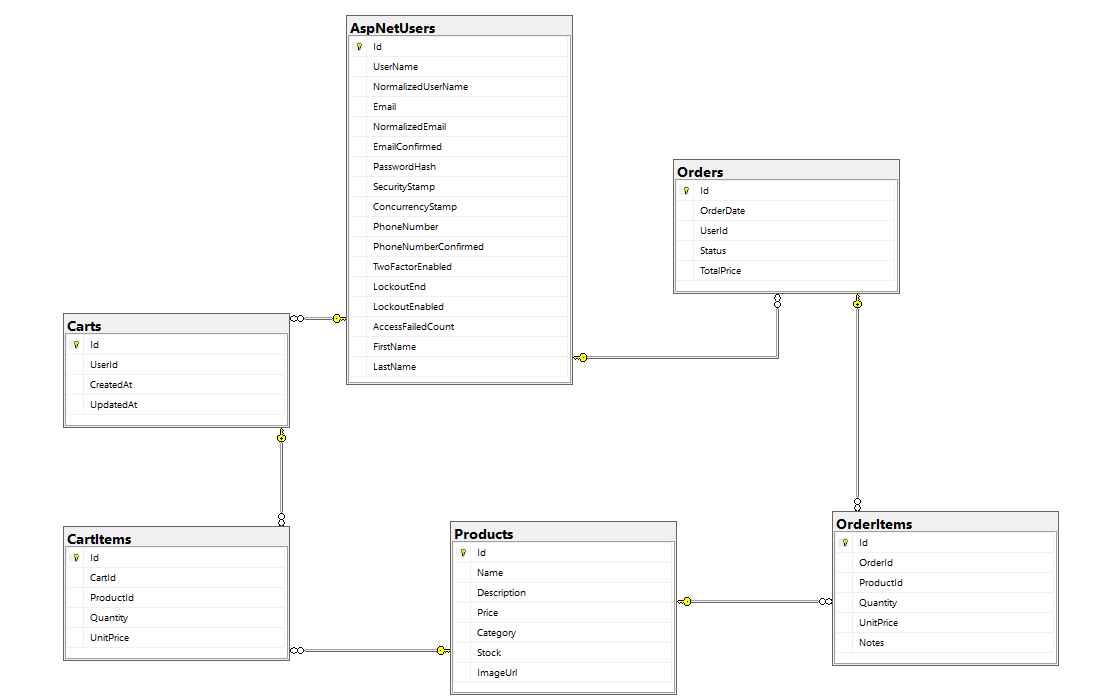
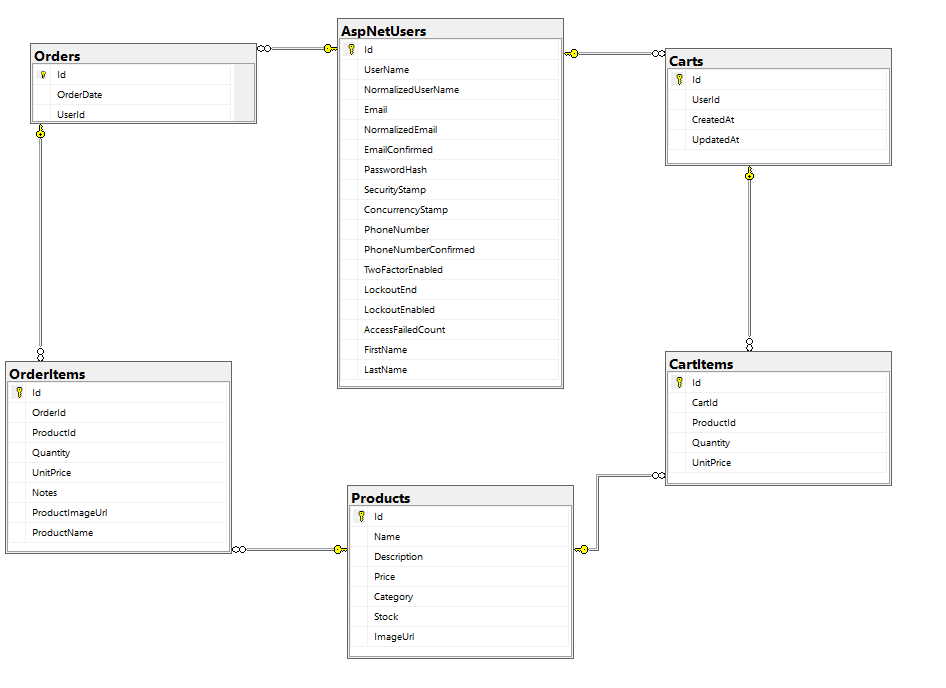
fixing order details

diff --git a/OnlineShop/Migrations/20260104194929_updatingorderitems.cs b/OnlineShop/Migrations/20260104194929_updatingorderitems.cs
@@ -1,0 +1,81 @@
+using Microsoft.EntityFrameworkCore.Migrations;
+
+#nullable disable
+
+namespace OnlineShop.Migrations
+{
+    /// <inheritdoc />
+    public partial class updatingorderitems : Migration
+    {
+        /// <inheritdoc />
+        protected override void Up(MigrationBuilder migrationBuilder)
+        {
+            migrationBuilder.DropForeignKey(
+                name: "FK_OrderItems_Products_ProductId",
+                table: "OrderItems");
+
+            migrationBuilder.AlterColumn<int>(
+                name: "ProductId",
+                table: "OrderItems",
+                type: "int",
+                nullable: true,
+                oldClrType: typeof(int),
+                oldType: "int");
+
+            migrationBuilder.AddColumn<string>(
+                name: "ProductImageUrl",
+                table: "OrderItems",
+                type: "nvarchar(max)",
+                nullable: true);
+
+            migrationBuilder.AddColumn<string>(
+                name: "ProductName",
+                table: "OrderItems",
+                type: "nvarchar(max)",
+                nullable: false,
+                defaultValue: "");
+
+            migrationBuilder.AddForeignKey(
+                name: "FK_OrderItems_Products_ProductId",
+                table: "OrderItems",
+                column: "ProductId",
+                principalTable: "Products",
+                principalColumn: "Id",
+                onDelete: ReferentialAction.SetNull);
+        }
+
+        /// <inheritdoc />
+        protected override void Down(MigrationBuilder migrationBuilder)
+        {
+            migrationBuilder.DropForeignKey(
+                name: "FK_OrderItems_Products_ProductId",
+                table: "OrderItems");
+
+            migrationBuilder.DropColumn(
+                name: "ProductImageUrl",
+                table: "OrderItems");
+
+            migrationBuilder.DropColumn(
+                name: "ProductName",
+                table: "OrderItems");
+
+            migrationBuilder.AlterColumn<int>(
+                name: "ProductId",
+                table: "OrderItems",
+                type: "int",
+                nullable: false,
+                defaultValue: 0,
+                oldClrType: typeof(int),
+                oldType: "int",
+                oldNullable: true);
+
+            migrationBuilder.AddForeignKey(
+                name: "FK_OrderItems_Products_ProductId",
+                table: "OrderItems",
+                column: "ProductId",
+                principalTable: "Products",
+                principalColumn: "Id",
+                onDelete: ReferentialAction.Cascade);
+        }
+    }
+}

diff --git a/OnlineShop/Controllers/ProductsController.cs b/OnlineShop/Controllers/ProductsController.cs
@@ -1,4 +1,7 @@
-using Microsoft.AspNetCore.Mvc;
+using System.IO;
+using System.Threading.Tasks;
+using Microsoft.AspNetCore.Mvc;
+using Microsoft.AspNetCore.Hosting;
 using Microsoft.EntityFrameworkCore;
 using Microsoft.AspNetCore.Authorization;
 using OnlineShop.Models;
@@ -216,24 +219,44 @@ namespace OnlineShop.Controllers
         // POST: Products/Delete/5
         [HttpPost, ActionName("Delete")]
         [ValidateAntiForgeryToken]
-        [Authorize(Roles = "Admin")]
         public async Task<IActionResult> DeleteConfirmed(int id)
         {
             var product = await _context.Products.FindAsync(id);
-            if (product != null)
-            {
-                if (!string.IsNullOrEmpty(product.ImageUrl) && product.ImageUrl.StartsWith("/images/products/", StringComparison.OrdinalIgnoreCase))
-                {
-                    var path = Path.Combine(_env.WebRootPath, product.ImageUrl.TrimStart('/').Replace('/', Path.DirectorySeparatorChar));
-                    if (System.IO.File.Exists(path))
-                    {
-                        System.IO.File.Delete(path);
-                    }
-                }
+            if (product == null)
+                return NotFound();
 
-                _context.Products.Remove(product);
-                await _context.SaveChangesAsync();
+            var imageUrl = product.ImageUrl;
+
+            _context.Products.Remove(product);
+            await _context.SaveChangesAsync();
+
+            if (string.IsNullOrWhiteSpace(imageUrl) ||
+                imageUrl.StartsWith("http://", System.StringComparison.OrdinalIgnoreCase) ||
+                imageUrl.StartsWith("https://", System.StringComparison.OrdinalIgnoreCase))
+            {
+                return RedirectToAction(nameof(Index));
             }
+
+            var imageStillUsed = await _context.Products.AnyAsync(p => p.ImageUrl == imageUrl)
+                              || await _context.OrderItems.AnyAsync(oi => oi.ProductImageUrl == imageUrl);
+
+            if (imageStillUsed)
+            {
+                return RedirectToAction(nameof(Index));
+            }
+
+            try
+            {
+                var relativePath = imageUrl.TrimStart('/', '\\');
+                var physicalPath = Path.Combine(_env.WebRootPath, relativePath);
+
+                if (System.IO.File.Exists(physicalPath))
+                {
+                    System.IO.File.Delete(physicalPath);
+                }
+            }
+            catch { }
+
             return RedirectToAction(nameof(Index));
         }
 

diff --git a/OnlineShop/Migrations/20260104194929_updatingorderitems.Designer.cs b/OnlineShop/Migrations/20260104194929_updatingorderitems.Designer.cs
@@ -3,6 +3,7 @@ using System;
 using Microsoft.EntityFrameworkCore;
 using Microsoft.EntityFrameworkCore.Infrastructure;
 using Microsoft.EntityFrameworkCore.Metadata;
+using Microsoft.EntityFrameworkCore.Migrations;
 using Microsoft.EntityFrameworkCore.Storage.ValueConversion;
 
 #nullable disable
@@ -10,9 +11,11 @@ using Microsoft.EntityFrameworkCore.Storage.ValueConversion;
 namespace OnlineShop.Migrations
 {
     [DbContext(typeof(ApplicationDbContext))]
-    partial class ApplicationDbContextModelSnapshot : ModelSnapshot
+    [Migration("20260104194929_updatingorderitems")]
+    partial class updatingorderitems
     {
-        protected override void BuildModel(ModelBuilder modelBuilder)
+        /// <inheritdoc />
+        protected override void BuildTargetModel(ModelBuilder modelBuilder)
         {
 #pragma warning disable 612, 618
             modelBuilder

diff --git a/OnlineShop/Controllers/CartController.cs b/OnlineShop/Controllers/CartController.cs
@@ -2,6 +2,7 @@ using Microsoft.AspNetCore.Mvc;
 using OnlineShop.Services;
 using Microsoft.AspNetCore.Authorization;
 using Microsoft.EntityFrameworkCore;
+using OnlineShop.Models;
 
 namespace OnlineShop.Controllers
 {
@@ -105,6 +106,8 @@ namespace OnlineShop.Controllers
                             Order = order,
                             ProductId = ci.ProductId,
                             Product = product,
+                            ProductName = product.Name,
+                            ProductImageUrl = product.ImageUrl,
                             Quantity = ci.Quantity,
                             UnitPrice = ci.UnitPrice
                         };

diff --git a/OnlineShop/Controllers/OrdersController.cs b/OnlineShop/Controllers/OrdersController.cs
@@ -131,7 +131,7 @@ namespace OnlineShop.Controllers
                                 Quantity = pItem.Quantity,
                                 UnitPrice = pItem.UnitPrice,
                                 Order = order,
-                                Product = products.TryGetValue(pItem.ProductId, out var prod) ? prod : null!,
+                                Product = products.TryGetValue((int)pItem.ProductId, out var prod) ? prod : null!,
                                 Notes = pItem.Notes
                             };
                             _db.OrderItems.Add(newOi);

diff --git a/OnlineShop/Models/OrderItem.cs b/OnlineShop/Models/OrderItem.cs
@@ -7,11 +7,14 @@ public class OrderItem
 
     [Required]
     public int OrderId { get; set; }
-    public required Order Order { get; set; }
+    public Order? Order { get; set; }
 
-    [Required]
-    public int ProductId { get; set; }
-    public required Product Product { get; set; }
+    // [Required]
+    public int? ProductId { get; set; }
+
+    public Product? Product { get; set; }
+    public string ProductName { get; set; } = string.Empty;
+    public string? ProductImageUrl { get; set; }
 
     [Range(0, 1000)]
     public int Quantity { get; set; }

diff --git a/OnlineShop/Data/ApplicationDbContext.cs b/OnlineShop/Data/ApplicationDbContext.cs
@@ -47,5 +47,11 @@ public class ApplicationDbContext : IdentityDbContext<ApplicationUser>
 
         builder.Entity<Cart>()
             .HasIndex(c => c.UserId);
+
+        builder.Entity<OrderItem>()
+            .HasOne(oi => oi.Product)
+            .WithMany(p => p.OrderItems)
+            .HasForeignKey(oi => oi.ProductId)
+            .OnDelete(DeleteBehavior.SetNull);
     }
 }
